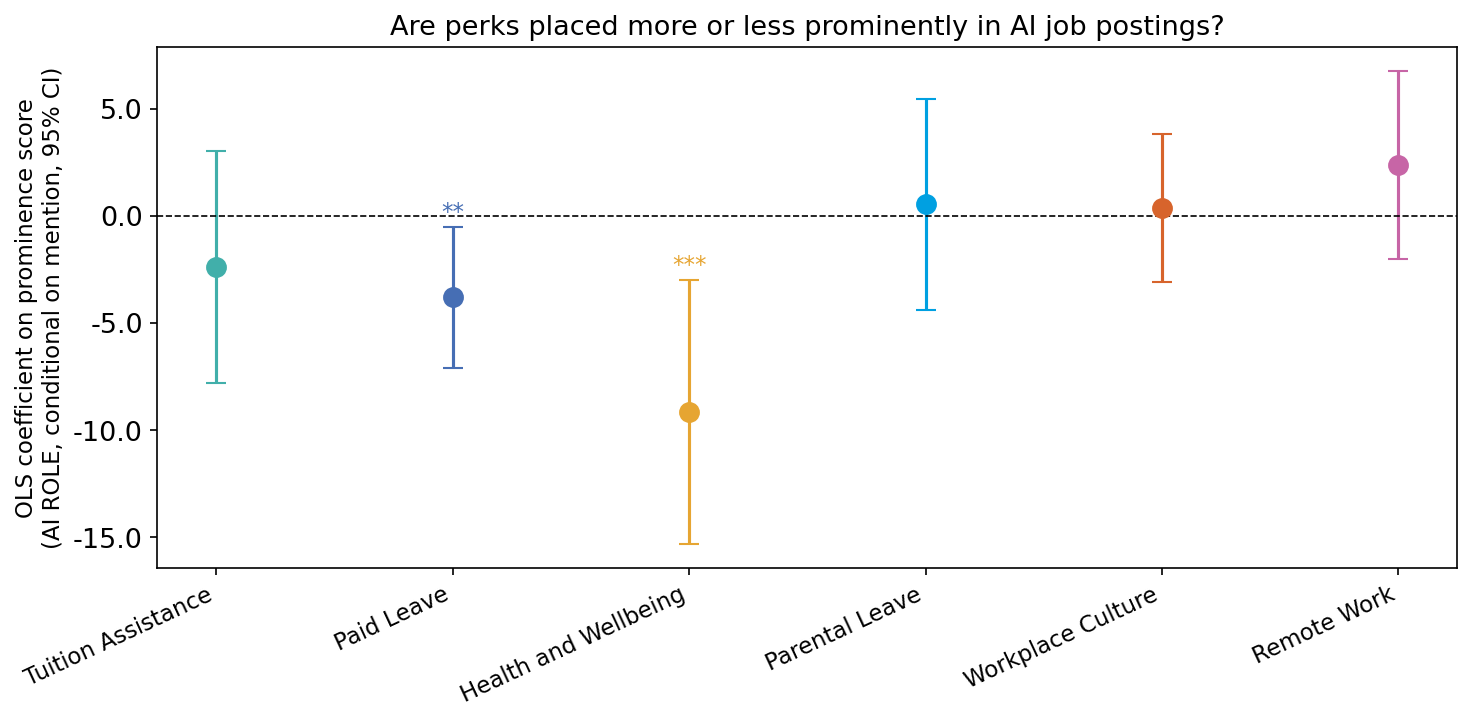
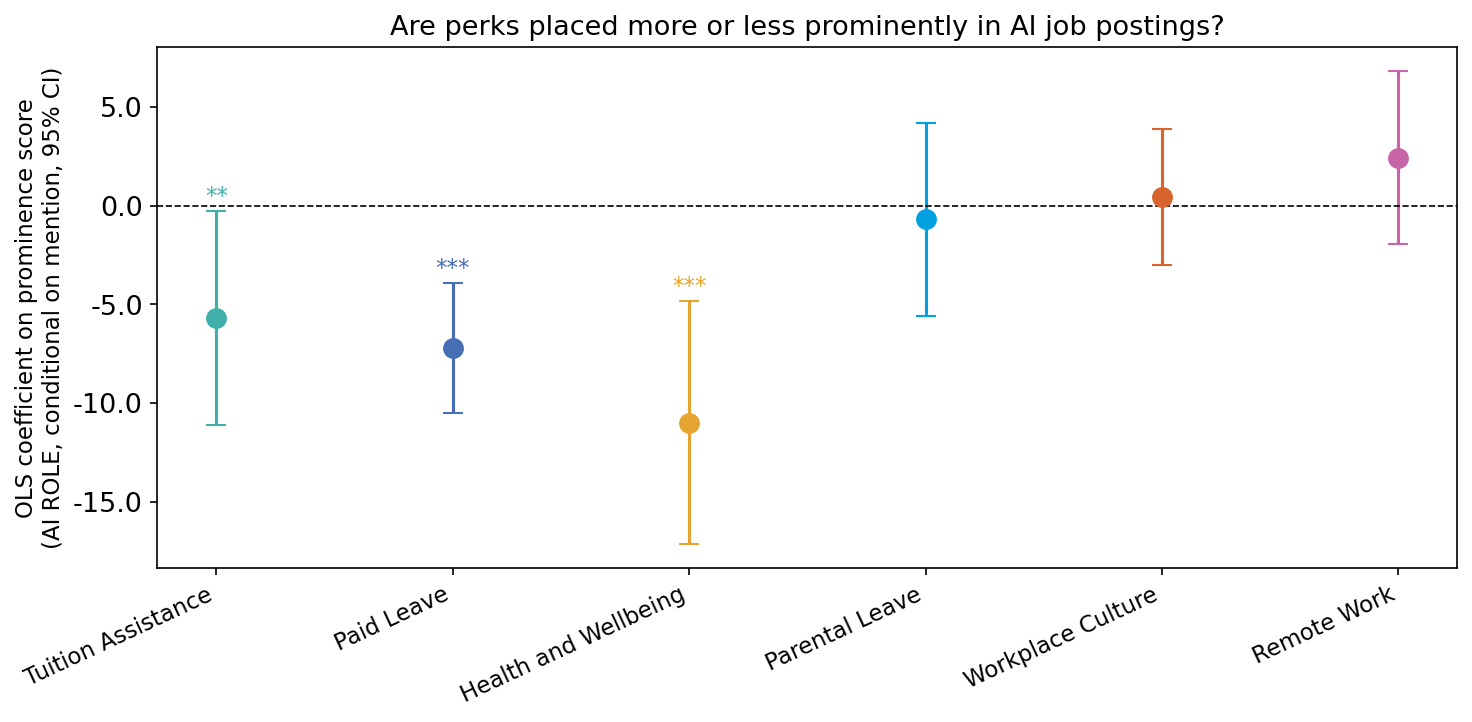
Simplify perk positioning spec to Year + Industry FE only
Dropping education and experience controls strengthens the AI ROLE
effect — Tuition Assistance becomes significant (-5.7pp**) alongside
Paid Leave (-7.2pp***) and Health & Wellbeing (-11.0pp***). Education
was absorbing part of the AI role effect via sorting.

diff --git a/analysis/perk_positioning_analysis.py b/analysis/perk_positioning_analysis.py
@@ -31,9 +31,7 @@ from package_files.benefits_defns import (
     benefits4_labels,
     benefit_colors,
     industry,
-    education,
     year,
-    experience,
 )
 
 plt.rcParams.update({"font.size": 13})
@@ -65,7 +63,7 @@ def load_data():
 
 
 def run_ols(df, position_col, predictor="AI ROLE"):
-    """OLS: position ~ AI_ROLE + Year + Industry + Education + Experience FE.
+    """OLS: position ~ AI_ROLE + Year + Industry FE.
     Only rows where the benefit was mentioned (position is not NaN).
     """
     sub = df[df[position_col].notna()].copy()
@@ -73,8 +71,8 @@ def run_ols(df, position_col, predictor="AI ROLE"):
     # Drop 2018 for consistency with regression_models.py
     sub = sub[sub[year] != 2018]
 
-    controls = [year, industry, education, experience]
-    ref = {education: "No Education Listed", experience: "None Listed"}
+    controls = [year, industry]
+    ref = {}
 
     X = sub[[predictor]].astype(float)
 
